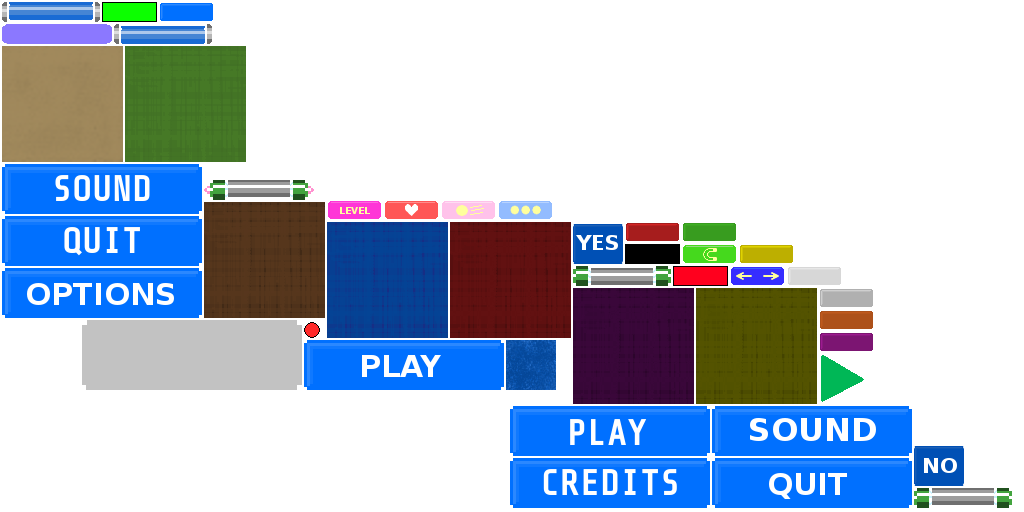
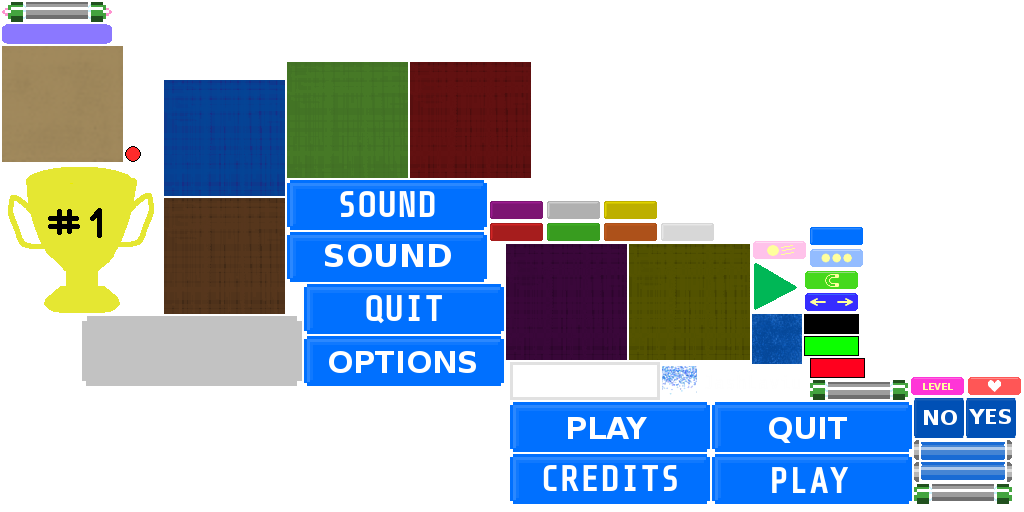
Fix win screen, Add developer name

diff --git a/core/src/com/jashlaviu/jashanoid/menu/MainMenuScreen.java b/core/src/com/jashlaviu/jashanoid/menu/MainMenuScreen.java
@@ -2,6 +2,7 @@ package com.jashlaviu.jashanoid.menu;
 
 
 import com.badlogic.gdx.Gdx;
+import com.badlogic.gdx.Input.Buttons;
 import com.badlogic.gdx.Input.Keys;
 import com.badlogic.gdx.ScreenAdapter;
 import com.badlogic.gdx.graphics.GL20;
@@ -19,14 +20,14 @@ public class MainMenuScreen extends ScreenAdapter{
 
 	private Jashanoid game;
 	private Stage stage;
-	private ActorJashanoid jashanoidName;
+	private ActorJashanoid jashanoidName, jashlaviuDev;
 	private MenuButton playButton, quitButton, soundButton, yesButton, noButton;
 	private MenuButton[] menuButtons;
 	private Cursor cursor;
 	
 	private boolean isSound = true;
 	private boolean showingOptions = false;
-	
+	private boolean drawSelector;
 	
 	private boolean animationStarted;
 	private float animationTime;
@@ -47,6 +48,9 @@ public class MainMenuScreen extends ScreenAdapter{
 		jashanoidName = new ActorJashanoid(TextureLoader.jashanoid);
 		jashanoidName.setPosition(-350, 400);
 		
+		jashlaviuDev = new ActorJashanoid(TextureLoader.jashlaviu);
+		jashlaviuDev.setPosition(-490, 10);
+		
 		menuButtons = new MenuButton[] {playButton, soundButton, quitButton};
 		
 		cursor = new Cursor(playButton.getX() - 90, playButton.getY() - 10, 3, heightGap);
@@ -56,6 +60,7 @@ public class MainMenuScreen extends ScreenAdapter{
 		stage.addActor(soundButton);
 		stage.addActor(quitButton);	
 		stage.addActor(jashanoidName);
+		stage.addActor(jashlaviuDev);
 
 		
 		for(Actor actors : stage.getActors()){
@@ -83,6 +88,10 @@ public class MainMenuScreen extends ScreenAdapter{
 			for(int x = 0; x < stage.getWidth(); x += 121)
 				game.getBatch().draw(TextureLoader.back_gui, x, y);			
 	
+		if(drawSelector){
+			game.getBatch().draw(TextureLoader.jashlaviu_selector, jashlaviuDev.getX()-2, jashlaviuDev.getY()-2);
+		}
+		
 		game.getBatch().end();
 
 		
@@ -120,6 +129,18 @@ public class MainMenuScreen extends ScreenAdapter{
 			if(menuButtons[index] == soundButton){				
 				handleSoundOptions();
 			}
+		}
+		
+		if(jashlaviuDev.getCollisionBounds().contains(Gdx.input.getX(), 
+				game.getViewport().getScreenHeight() - Gdx.input.getY())){
+			
+			drawSelector = true;
+			
+			if(Gdx.input.justTouched()){			
+				Gdx.net.openURI("https://twitter.com/jashlaviu");			
+			}
+		}else{
+			drawSelector = false;
 		}
 		
 		if(animationStarted){

diff --git a/core/src/com/jashlaviu/jashanoid/WinScreen.java b/core/src/com/jashlaviu/jashanoid/WinScreen.java
@@ -3,6 +3,7 @@ package com.jashlaviu.jashanoid;
 import com.badlogic.gdx.Gdx;
 import com.badlogic.gdx.ScreenAdapter;
 import com.badlogic.gdx.Input.Keys;
+import com.badlogic.gdx.graphics.GL20;
 import com.badlogic.gdx.graphics.g2d.BitmapFont;
 import com.badlogic.gdx.graphics.g2d.SpriteBatch;
 import com.badlogic.gdx.scenes.scene2d.Stage;
@@ -14,10 +15,14 @@ public class WinScreen extends ScreenAdapter{
 	private SpriteBatch batch;
 	private BitmapFont fontBig, fontSmall;
 	private Stage stage;
+	private Score score;
 	
 	public WinScreen(Jashanoid game) {
 		this.game = game;
 		this.batch = game.getBatch();
+		
+		score = game.getGameScreen().getScore();
+		
 		fontBig = new BitmapFont(Gdx.files.internal("fonts/ShareTechMono-Regular120.fnt"));		
 		fontSmall = new BitmapFont(Gdx.files.internal("fonts/ShareTechMono-Regular26.fnt"));		
 		
@@ -26,15 +31,31 @@ public class WinScreen extends ScreenAdapter{
 	}	
 	
 	@Override
-	public void render(float delta) {
+	public void render(float delta) {		
+		Gdx.gl.glClearColor(0, 0, 0, 1);
+		Gdx.gl.glClear(GL20.GL_COLOR_BUFFER_BIT);
+		
 		batch.begin();
 		
 		for(int y = 0; y < stage.getHeight(); y += 116)
 			for(int x = 0; x < stage.getWidth(); x += 121)
 				batch.draw(TextureLoader.back_gui, x, y);	
 		
-		fontBig.draw(batch, "GANASTE", 130, 350);		
-		fontSmall.draw(batch, "Press [ESC] to go to Main Menu", 150, 50);
+		fontBig.draw(batch, "VICTORY", 160, 550);	
+		
+		
+		fontSmall.draw(batch, "YOUR SCORE", 150, 420);
+		fontSmall.draw(batch, "" + score.getPoints(), 170, 380);		
+		fontSmall.draw(batch, "YOUR MAX SCORE", 450, 420);		
+		fontSmall.draw(batch, "" + score.getHiScore(), 500, 380);		
+		
+		batch.draw(TextureLoader.trophy, 300, 200);
+		
+		fontSmall.draw(batch, "Thanks for playing!", 100, 100);
+		fontSmall.draw(batch, "New levels in future updates!", 50, 50);		
+		
+		fontSmall.draw(batch, "Main Menu", 610, 100);
+		fontSmall.draw(batch, "Press [ESC]", 600, 50);
 		
 		
 		batch.end();		

diff --git a/core/src/com/jashlaviu/jashanoid/TextureLoader.java b/core/src/com/jashlaviu/jashanoid/TextureLoader.java
@@ -12,7 +12,7 @@ public class TextureLoader{
 	public static TextureRegion bonus_expand, bonus_glue, bonus_level, bonus_life, bonus_slow, bonus_three;
 	public static TextureRegion brick_01, brick_02, brick_03, brick_04, brick_05, brick_11, brick_12, brick_21, ball_02;
 	public static TextureRegion hearth, platform_02, platform_03, platform_04, platform_05;
-	public static TextureRegion jashanoid, game_over, cursor, cursor_2;
+	public static TextureRegion jashanoid, game_over, cursor, cursor_2, trophy, jashlaviu, jashlaviu_selector;
 	public static TextureRegion button_play, button_quit, button_options, button_sound, button_yes, button_no;
 	
 	public TextureLoader(){
@@ -61,7 +61,9 @@ public class TextureLoader{
 		button_yes = load("button_yes");
 		button_no = load("button_no");
 		
-		
+		trophy = load("trophy");
+		jashlaviu = load("jashlaviu_mini");
+		jashlaviu_selector = load("jashlaviu_selector");
 		
 	}
 	

diff --git a/core/src/com/jashlaviu/jashanoid/JashanoidScreen.java b/core/src/com/jashlaviu/jashanoid/JashanoidScreen.java
@@ -333,11 +333,12 @@ public class JashanoidScreen extends ScreenAdapter{
 			if(ran2 == 1 || ran2 == 2)
 				return new BonusLife(screen, x, y);
 			
-			if(ran2 == 2)
+			if(ran2 == 3)
 				return new BonusLevel(screen, x, y);
 		}
 		
-		return null;		
+		return null;
+			
 	}
 	
 
